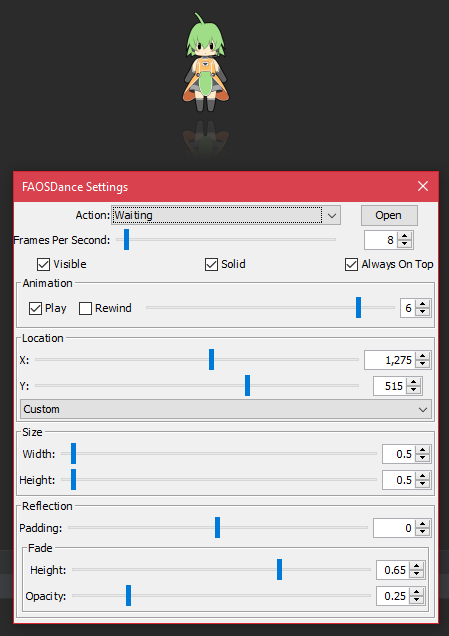
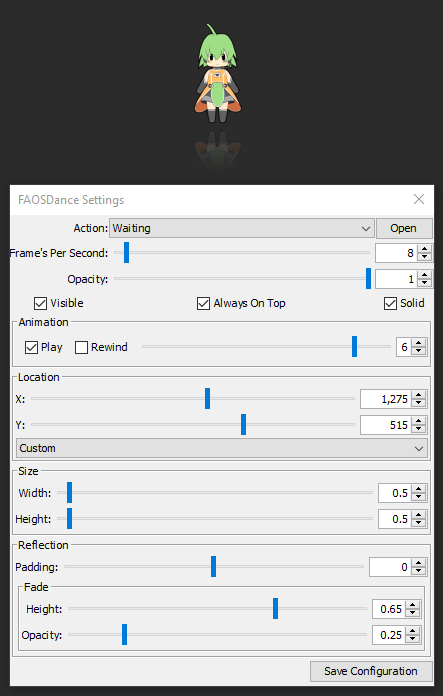
Updated README.md

Changed region(s): [[0.0, 0.239, 0.9977, 0.9858], [0.4108, 0.0299, 0.5576, 0.1792]]

diff --git a/README.md b/README.md
@@ -3,7 +3,8 @@ A stand-alone, free and open-source implementation of the Fruity Dance plugin fr
 
 | | Downloads |
 |---|---|
-| **Latest** | ![GitHub Releases (by Release)](https://img.shields.io/github/downloads/DeflatedPickle/FAOSDance/v0.1.13-alpha/total.svg) |
+| **Latest** | ![GitHub Releases (by Release)](https://img.shields.io/github/downloads/DeflatedPickle/FAOSDance/v0.1.17-alpha/total.svg) |
+| | ![GitHub Releases (by Release)](https://img.shields.io/github/downloads/DeflatedPickle/FAOSDance/v0.1.13-alpha/total.svg) |
 | | ![GitHub Releases (by Release)](https://img.shields.io/github/downloads/DeflatedPickle/FAOSDance/v0.1.5-alpha/total.svg) |
 | | ![GitHub Releases (by Release)](https://img.shields.io/github/downloads/DeflatedPickle/FAOSDance/v0.1.2-alpha/total.svg) |
 | | ![GitHub Releases (by Release)](https://img.shields.io/github/downloads/DeflatedPickle/FAOSDance/v0.1.0-alpha/total.svg) |
@@ -12,7 +13,7 @@ A stand-alone, free and open-source implementation of the Fruity Dance plugin fr
 | | Fruity Dance | FAOSDance |
 |---|---|---|
 | **Interface** | ![FruityDance](.github/images/FruityDance.png) | ![FAOSDance](.github/images/FAOSDance.png) |
-| **Pros** | Has a frame blending slider | Free and stand-alone, more customizable |
+| **Pros** | Has a frame blending slider | Free, stand-alone and more customizable, has a config file |
 | **Cons** | Requires owning (paid or trial) and running FL Studio | *Coming Soon* |
 
 ---
